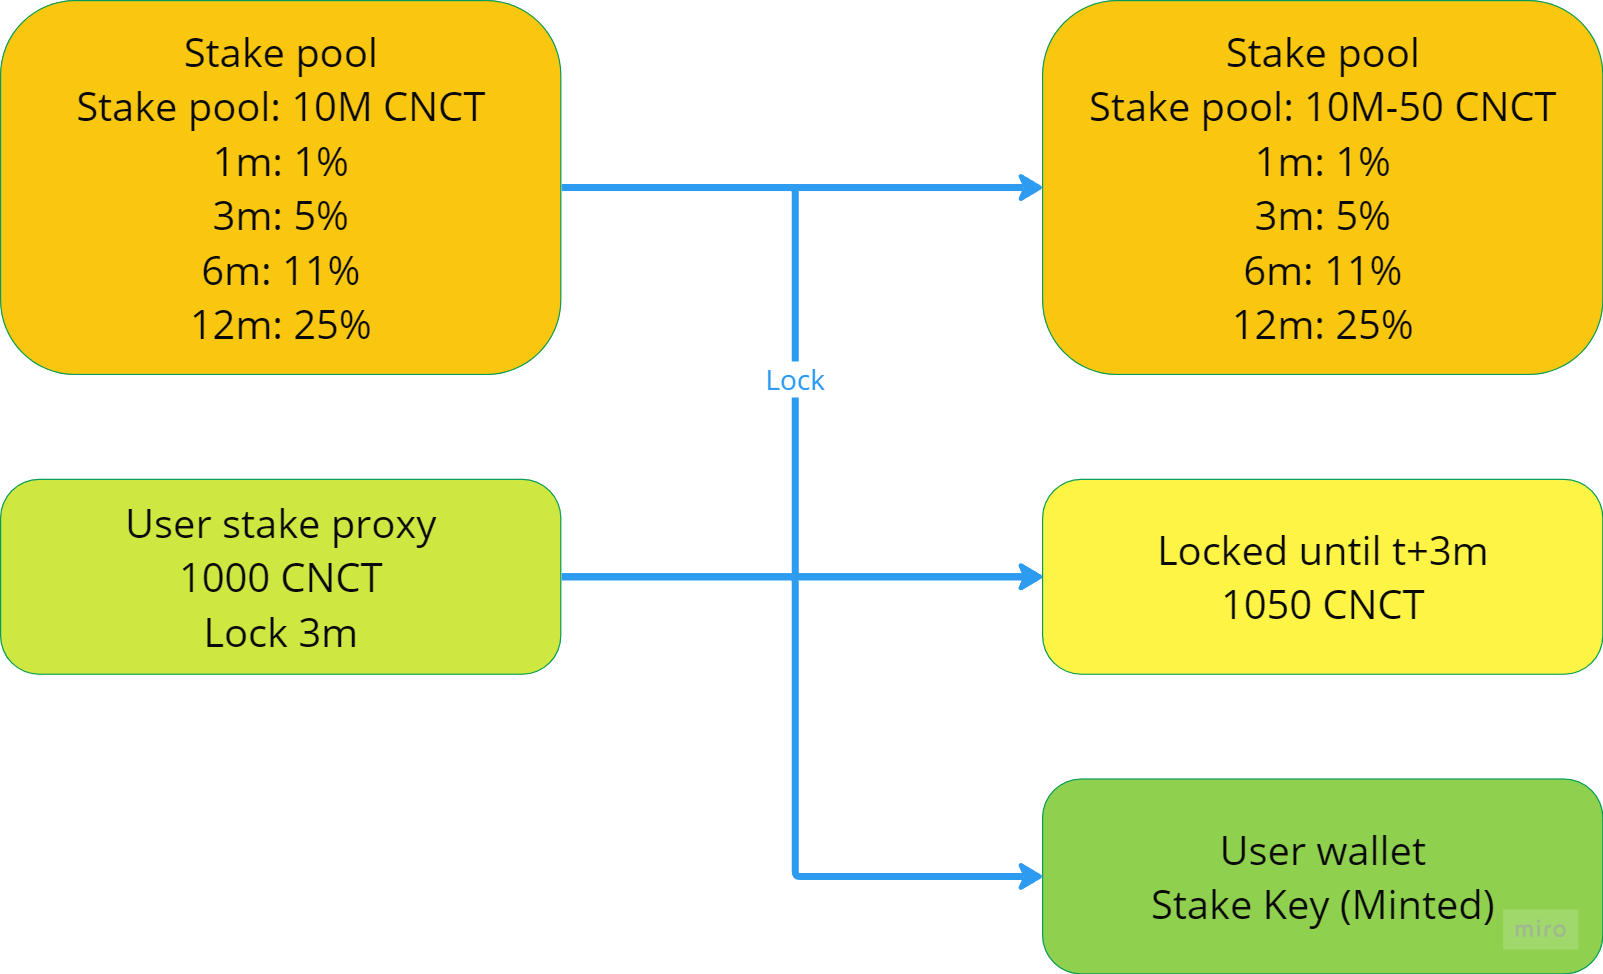
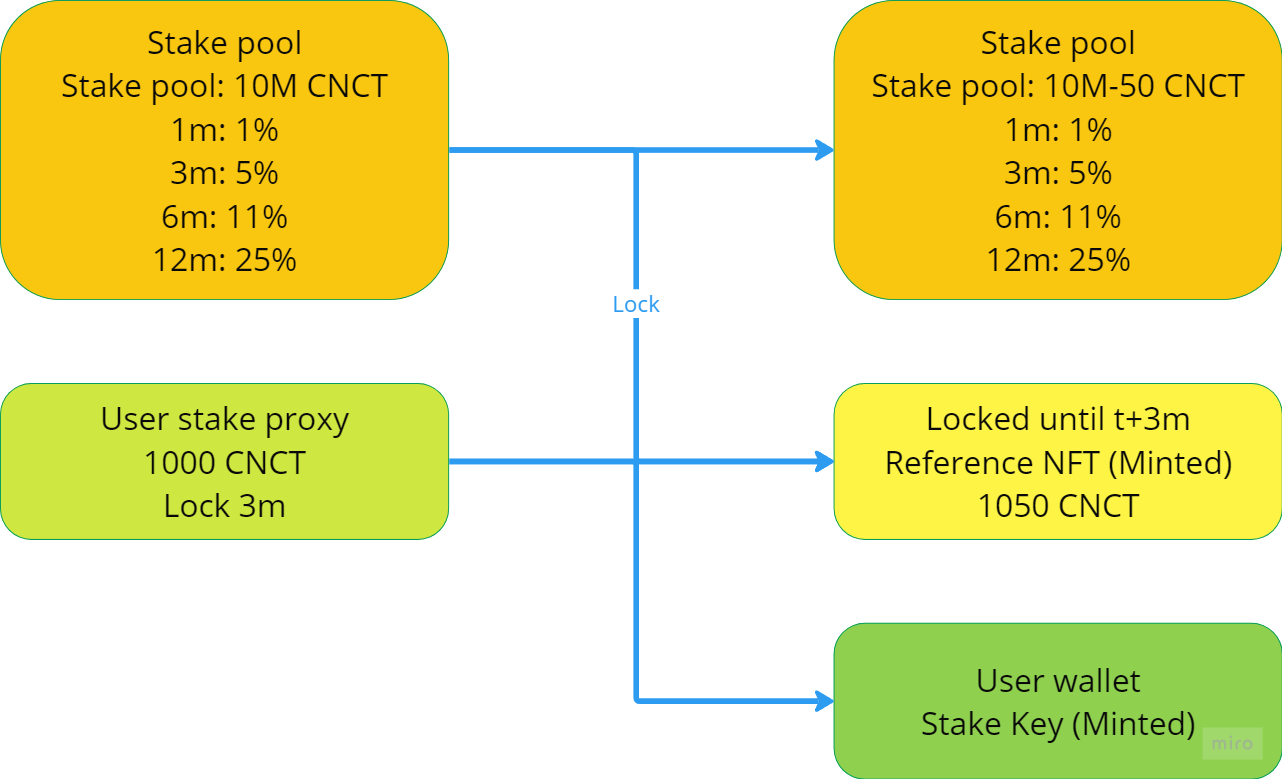
update readme

diff --git a/README.md b/README.md
@@ -3,8 +3,8 @@
 The Coinecta staking contracts support the requirement of being able to allow
 users to lock tokens for certain time periods and get a percentage reward for
 it. Because these locking periods can potentially be long we bind the time lock
-to a unique NFT (the stake key) minted during the locking transaction. This
-allows the user to move to another wallet (for example due to loss of seed
+to a unique CIP-68 NFT (the stake key) minted during the locking transaction.
+This allows the user to move to another wallet (for example due to loss of seed
 phrase of the original wallet) or even sell the stake key to someone else on a
 secondary market such as jpg.store.
 
@@ -74,7 +74,7 @@ into the timelock to support CIP 68
 
 The on chain asset name will consist of the minting time joined with the
 transaction id of the stake pool input. Together this ensures uniqueness of the
-asset. Of course this does not give a humanly readable name, so we store
+asset. Of course this does not give a humanly readable name, so we store CIP-68
 metadata in the time lock to allow for a good representation in wallets etc. The
 metadata is also checked to ensure it matches what is being locked.
 
@@ -103,21 +103,21 @@ Main validations during a mint:
 
 ### Lock stake
 
-| inputs      | mints              | outputs                     |
-| ----------- | ------------------ | --------------------------- |
-| stake_pool  |                    | stake_pool                  |
-| stake_proxy |                    | time_lock                   |
-|             | stake_key_mint + 1 | user wallet                 |
-|             |                    | Off chain operator (change) |
+| inputs      | mints            | outputs                     |
+| ----------- | ---------------- | --------------------------- |
+| stake_pool  |                  | stake_pool                  |
+| stake_proxy | reference nft +1 | time_lock                   |
+|             | stake_key + 1    | user wallet                 |
+|             |                  | Off chain operator (change) |
 
 ![Lock stake](img/coinecta-staking-lock.png)
 
 ### Unstake
 
-| inputs      | mints              | outputs     |
-| ----------- | ------------------ | ----------- |
-| time_lock   |                    | user wallet |
-| user wallet | stake_key_mint - 1 |             |
+| inputs      | mints             | outputs     |
+| ----------- | ----------------- | ----------- |
+| time_lock   | reference nft - 1 | user wallet |
+| user wallet | stake_key - 1     |             |
 
 ![Unstake](img/coinecta-staking-unstake.png)
 
